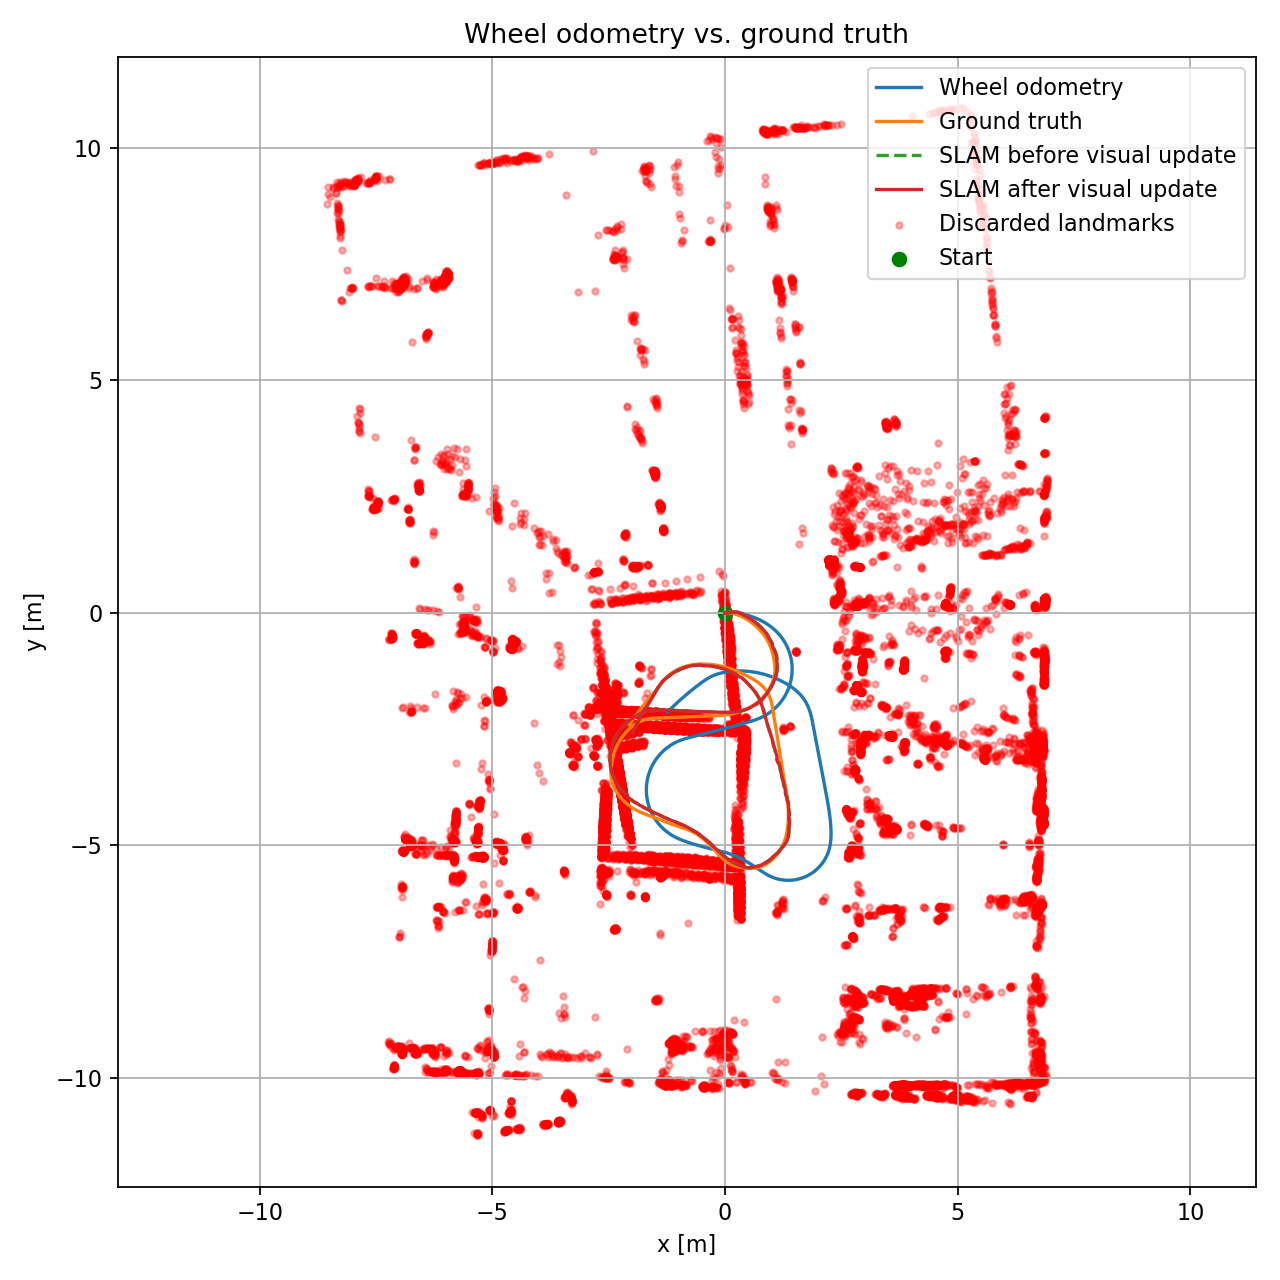
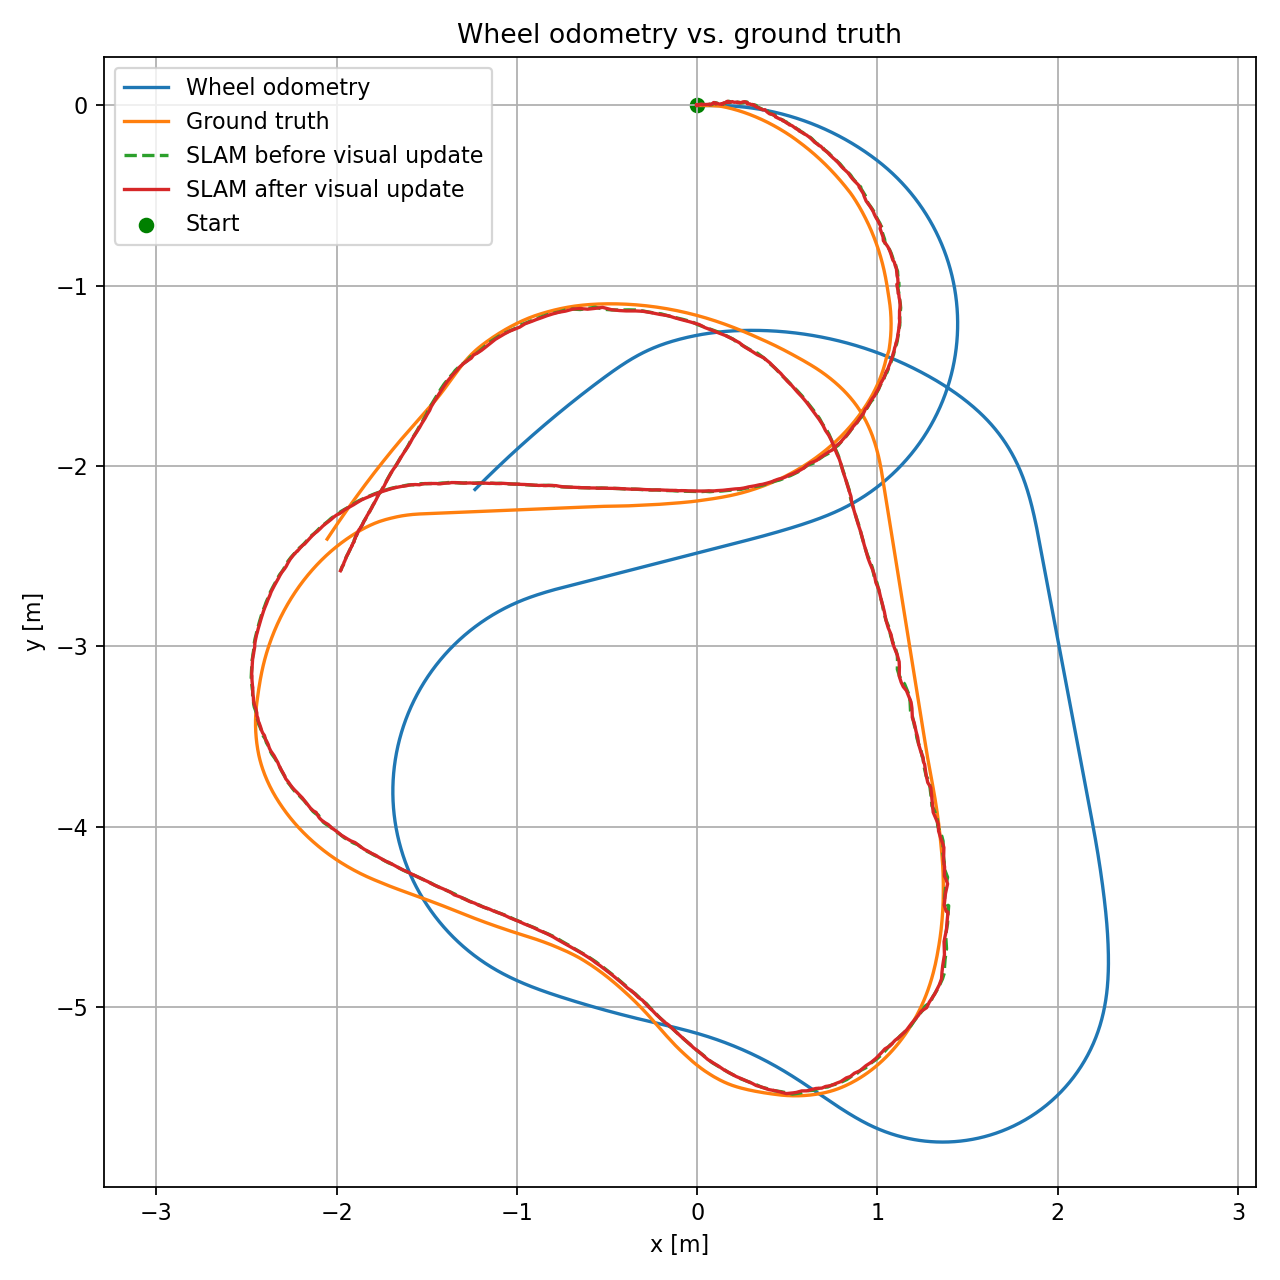
update README

diff --git a/visual_inertial_slam/visual_slam.py b/visual_inertial_slam/visual_slam.py
@@ -495,15 +495,6 @@ if len(slam_updated_path) > 0:
         slam_updated_path[:, 1],
         label="SLAM after visual update",
     )
-if len(discarded_points_array) > 0:
-    plt.scatter(
-        discarded_points_array[:, 0],
-        discarded_points_array[:, 1],
-        s=8,
-        alpha=0.3,
-        color="red",
-        label="Discarded landmarks",
-    )
 plt.scatter(path[0, 0], path[0, 1], color="green", label="Start")
 plt.xlabel("x [m]")
 plt.ylabel("y [m]")
@@ -513,6 +504,38 @@ plt.grid(True)
 plt.legend()
 plt.tight_layout()
 plt.savefig("odometry_path.png", dpi=160)
+
+landmark_figure = plt.figure(figsize=(8, 8))
+landmark_axis = landmark_figure.add_subplot(111)
+if len(slam_updated_path) > 0:
+    landmark_axis.plot(
+        slam_updated_path[:, 0],
+        slam_updated_path[:, 1],
+        label="SLAM path",
+    )
+if len(discarded_points_array) > 0:
+    landmark_axis.scatter(
+        discarded_points_array[:, 0],
+        discarded_points_array[:, 1],
+        s=8,
+        alpha=0.3,
+        color="red",
+        label="Discarded landmarks",
+    )
+landmark_axis.scatter(
+    path[0, 0],
+    path[0, 1],
+    color="green",
+    label="Start",
+)
+landmark_axis.set_xlabel("x [m]")
+landmark_axis.set_ylabel("y [m]")
+landmark_axis.set_title("SLAM path and discarded landmarks")
+landmark_axis.axis("equal")
+landmark_axis.grid(True)
+landmark_axis.legend()
+landmark_figure.tight_layout()
+landmark_figure.savefig("landmarks_2d.png", dpi=160)
 
 if PLOT_LANDMARKS_3D:
     figure_3d = plt.figure(figsize=(10, 8))

diff --git a/README.md b/README.md
@@ -25,7 +25,8 @@ localization steps before moving them into a real-time ROS 2 node.
 - Sparse landmark observation Jacobian
 - Robot and landmark EKF updates
 - Wheel-odometry, visual-update, and Gazebo ground-truth comparison
-- Optional 2D and 3D discarded-landmark visualization
+- Separate path-only and landmark visualization outputs
+- Optional 3D discarded-landmark visualization
 
 The bag contains IMU messages, but the current estimator does not fuse the IMU.
 
@@ -112,19 +113,28 @@ landmarks and accepted observations.
 
 ## Output
 
-At completion, the script displays and saves:
+At completion, the script displays and saves two 2D figures.
+
+The clean path comparison is:
 
 ```text
 odometry_path.png
 ```
 
-The 2D figure compares:
+It compares:
 
 - Wheel/Ackermann odometry
 - Gazebo ground truth
 - Robot pose before the visual update
 - Robot pose after the visual update
-- Discarded landmark positions
+
+The landmark figure is:
+
+```text
+landmarks_2d.png
+```
+
+It shows the updated SLAM path together with discarded landmark positions.
 
 Set the following flag in `visual_slam.py` to enable the separate 3D landmark
 figure:
